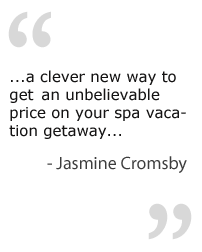
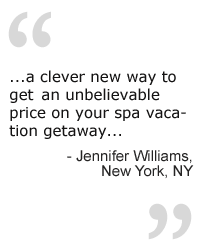
adding all the changes.  Language of faq, new names on reviews nivo slider

Changed region(s): [[0.297, 0.5833, 0.9505, 0.7222], [0.2673, 0.6667, 0.297, 0.6944], [0.2376, 0.6389, 0.2673, 0.6667]]

diff --git a/faq.php b/faq.php
@@ -37,8 +37,8 @@ include("inc/products.php");
     <p>If you are a traveling alone, then SpaGroups is also a perfect way to obtain group discounts whether you prefer to connect with your group at the resort or simply have your own solo spa retreat - it's totally up to you.</p>
 
     <h2>Do I have to become a member to use SpaGroups?</h2>
-    <p>You only need to become a Premium Member if you want to lead a group; otherwise we consider you a (FREE) member as soon as you login, submit an email, or register for one of our groups.  For complete details, pleaes see our membership <a href="membership-terms.php">terms and conditions</a>.
-    Membership is free and you pay only a small registration fee to reserve your spot in each group which includes the fee we are charged by your credit card company.  By becoming a member, you have access to group rates and SpaGroups becomes your exclusive spa agent for your spa resort hotel stay.</p>
+    <p>You only need to become a Premium Member if you apply and are accepted as a Group Leader; otherwise we consider you a free member as soon as you login, submit an email, or register for one of our group trips.  For complete details, please see our membership <a href="membership-terms.php">terms and conditions</a>.
+    By becoming a member, you have access to group rates and SpaGroups becomes your exclusive spa agent for your spa resort hotel stay.</p>
 
     <h2>How do I become a group leader?</h2>
     <p>We are currently accepting applications for group leaders. If you are great with people and are an expert at one of our luxury spa resorts and wish to be a group leader, you can obtain even better discounts up to and including a complimentary, all-inclusive spa vacation (depending on the policies of the specific resort).  You can keep your group private or allow other SpaGroups members to join your group.  <a href="start.php">You can apply to be a group leader here.</a></p>

diff --git a/inc/products.php b/inc/products.php
@@ -11,16 +11,16 @@ $groups [100] = array(
     "registered" => 1,
     "groupRatesAt" => 8,
     "compStayAt" => 12,
-    "spa" => "Miraval Spa Resort"."&trade;",
+    "spa" => "Tucson Spa TBA",
     "citystate" => "Tucson, AZ",
     "leader" => "Cindy R.",
     "name" => "Valentine's Day Girlfriend's Getaway",
     "privacy" => "Open",
     "price" => "$$$",
     "nights" => "4+",
-    "facebookgroup" => "<a href='https://www.facebook.com/groups/miravalretreat/'>view group</a>",
-    "image" => "images/miraval-big.png",
-    "fbimage" => "images/miraval-big.png",
+    "facebookgroup" => "<a href='https://www.facebook.com/groups/446680378774437/'>view group</a>",
+    "image" => "images/wonderland-big.png",
+    "fbimage" => "images/sauna-fb.jpg",
     "eventbrite" => "10639640451&ref=etckt&v=2",
     "description" => "description will be posted shortly....thank you for your patience.",
     "paypal" => "NXWEEPK97ERJ2"

diff --git a/actions.php b/actions.php
@@ -11,7 +11,8 @@ CREATE TABLE `fblogin` (
 `firstname` VARCHAR( 300 ) NOT NULL ,
 `lastname` VARCHAR( 300 ) NOT NULL ,
 `email` VARCHAR( 300 ) NOT NULL ,
-`image` VARCHAR( 600 ) NOT NULL,
+`image` VARCHAR( 600 ) NOT NULL ,
+`gender` VARCHAR ( 30 ) NOT NULL ,
 `postdate` DATETIME NOT NULL
 ) ENGINE = InnoDB;
 */ -->
